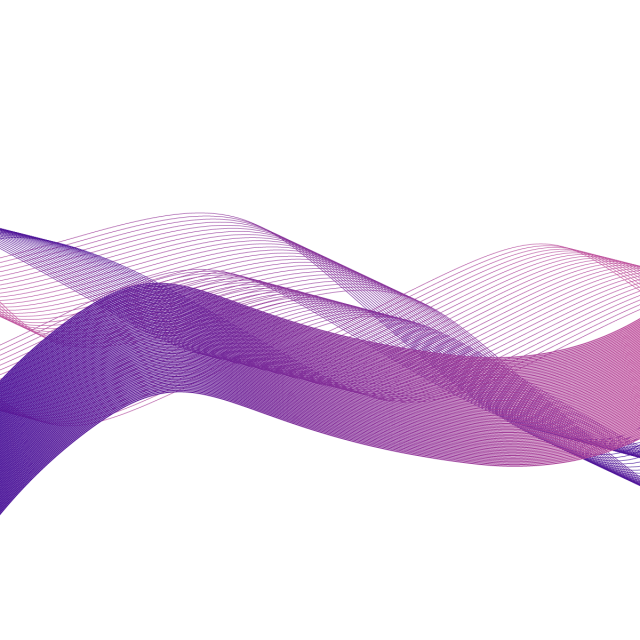
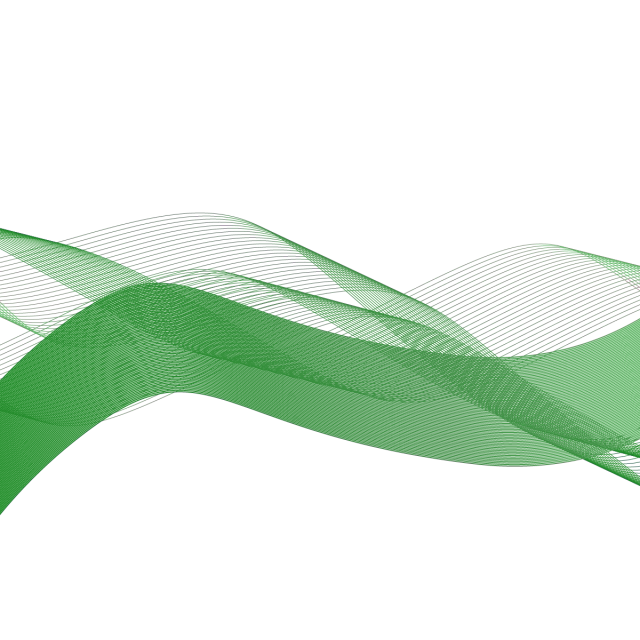
Update Investors and Farmers layout

Changed region(s): [[0.0, 0.3125, 1.0, 0.8125]]

diff --git a/src/components/Investors.js b/src/components/Investors.js
@@ -1,14 +1,17 @@
 import React from "react";
 import styled from "styled-components";
 import platform from "../assets/images/curve-background.png";
+import secure from "../assets/images/secure.svg";
+import transparent from "../assets/images/transparent.svg";
+import instantaneous from "../assets/images/instantaneous.svg";
 
-const mediaQuery = '(max-width: 768px)';
+const mediaQuery = "(max-width: 768px)";
 
 const Investors = styled.div`
   /* background: linear-gradient(rgba(0, 0, 100, 0.5), rgba(0, 0, 100, 0.7)),
     url(${platform}); */
   /* background: url(${platform}); */
-  background-color: #f3f3f3;
+  background-color: #fff;
   background-size: 100%;
   background-position: bottom right;
   background-repeat: no-repeat;
@@ -20,7 +23,7 @@ const Investors = styled.div`
 
 const H2 = styled.h2`
   font-size: 50px;
-  color: #30336b;
+  color: #2a9d72;
 `;
 
 const Cards = styled.section`
@@ -35,15 +38,26 @@ const Cards = styled.section`
 
 const Wrapper = styled.div`
   grid-column: 3/5;
-  @media ${mediaQuery}{
+  @media ${mediaQuery} {
     grid-column: 1/3;
   }
 `;
 
 const Card = styled.div`
   grid-column: 2/3;
-  background-color: #f3f3f3;
+  background-color: #fff;
   /* padding: 0.5rem; */
+`;
+
+const CardCover = styled.div`
+  width: 100%;
+  padding: 20px;
+`;
+
+const CardImage = styled.img`
+  display: block;
+  margin: 0 auto;
+  width: 20%;
 `;
 
 const CardDescription = styled.div`
@@ -51,7 +65,7 @@ const CardDescription = styled.div`
 `;
 
 const CardTitle = styled.p`
-  color: #30336b;
+  color: #2a9d72;
   font-size: 20px;
   text-transform: uppercase;
   margin-bottom: 0;
@@ -67,14 +81,14 @@ const Button = styled.a`
   display: inline-block;
   padding: 10px;
   color: #ffffff;
-  background-color: #30336b;
-  border: 1.5px solid #30336b;
+  background-color: #2a9d72;
+  border: 1.5px solid #2a9d72;
   border-radius: 5px;
   text-decoration: none;
   text-transform: uppercase;
   font-weight: bold;
   &:hover {
-    background-color: #a29bfe;
+    background-color: #1dd1a1;
     color: #dfe6e9;
     border: 1.5px solid #dfe6e9;
   }
@@ -86,9 +100,9 @@ export default () => (
     <Cards>
       <Wrapper>
         <Card>
-          {/* <CardCover>
+          <CardCover>
             <CardImage src={secure} alt="" />
-          </CardCover> */}
+          </CardCover>
           <CardDescription>
             <CardTitle>Secure</CardTitle>
             <ItemText>
@@ -101,9 +115,9 @@ export default () => (
           </CardDescription>
         </Card>
         <Card>
-          {/* <CardCover>
-            <CardImage src={democratic} alt="" />
-          </CardCover> */}
+          <CardCover>
+            <CardImage src={transparent} alt="" />
+          </CardCover>
           <CardDescription>
             <CardTitle>Transparent</CardTitle>
             <ItemText>
@@ -118,9 +132,9 @@ export default () => (
           </CardDescription>
         </Card>
         <Card>
-          {/* <CardCover>
-            <CardImage src={democratic} alt="" />
-          </CardCover> */}
+          <CardCover>
+            <CardImage src={instantaneous} alt="" />
+          </CardCover>
           <CardDescription>
             <CardTitle>Instantaneous</CardTitle>
             <ItemText>

diff --git a/src/components/Farmers.js b/src/components/Farmers.js
@@ -1,12 +1,15 @@
 import React from "react";
 import styled from "styled-components";
 import platform from "../assets/images/curve-background.png";
+import fair from "../assets/images/fair.svg";
+import accessible from "../assets/images/accessible.svg";
+import simple from "../assets/images/simple.svg";
 
 const Farmers = styled.div`
   /* background: linear-gradient(rgba(0, 0, 100, 0.5), rgba(0, 0, 100, 0.7)),
     url(${platform}); */
   /* background: url(${platform}); */
-  background-color: #f3f3f3;
+  background-color: #fff;
   background-size: 100%;
   background-position: bottom right;
   background-repeat: no-repeat;
@@ -18,7 +21,7 @@ const Farmers = styled.div`
 
 const H2 = styled.h2`
   font-size: 50px;
-  color: #30336b;
+  color: #2a9d72;
 `;
 
 const Cards = styled.section`
@@ -36,8 +39,19 @@ const Wrapper = styled.div`
 `;
 
 const Card = styled.div`
-  background-color: #f3f3f3;
+  background-color: #fff;
   /* padding: 0.5rem; */
+`;
+
+const CardCover = styled.div`
+  width: 100%;
+  padding: 20px;
+`;
+
+const CardImage = styled.img`
+  display: block;
+  margin: 0 auto;
+  width: 20%;
 `;
 
 const CardDescription = styled.div`
@@ -45,7 +59,7 @@ const CardDescription = styled.div`
 `;
 
 const CardTitle = styled.p`
-  color: #30336b;
+  color: #2a9d72;
   font-size: 20px;
   text-transform: uppercase;
   margin-bottom: 0;
@@ -61,14 +75,14 @@ const Button = styled.a`
   display: inline-block;
   padding: 10px;
   color: #ffffff;
-  background-color: #30336b;
-  border: 1.5px solid #30336b;
+  background-color: #2a9d72;
+  border: 1.5px solid #2a9d72;
   border-radius: 5px;
   text-decoration: none;
   text-transform: uppercase;
   font-weight: bold;
   &:hover {
-    background-color: #a29bfe;
+    background-color: #1dd1a1;
     color: #dfe6e9;
     border: 1.5px solid #dfe6e9;
   }
@@ -80,6 +94,9 @@ export default () => (
     <Cards>
       <Wrapper>
         <Card>
+          <CardCover>
+            <CardImage src={fair} alt="" />
+          </CardCover>
           <CardDescription>
             <CardTitle>Fair</CardTitle>
             <ItemText>
@@ -94,8 +111,11 @@ export default () => (
           </CardDescription>
         </Card>
         <Card>
+          <CardCover>
+            <CardImage src={accessible} alt="" />
+          </CardCover>
           <CardDescription>
-            <CardTitle>Acessible</CardTitle>
+            <CardTitle>Accessible</CardTitle>
             <ItemText>
               The P2P crypto platform is accessible for all farmers who has some
               way to connect the internet by mobile phone, web systems or rural
@@ -108,6 +128,9 @@ export default () => (
           </CardDescription>
         </Card>
         <Card>
+          <CardCover>
+            <CardImage src={simple} alt="" />
+          </CardCover>
           <CardDescription>
             <CardTitle>Simple</CardTitle>
             <ItemText>
